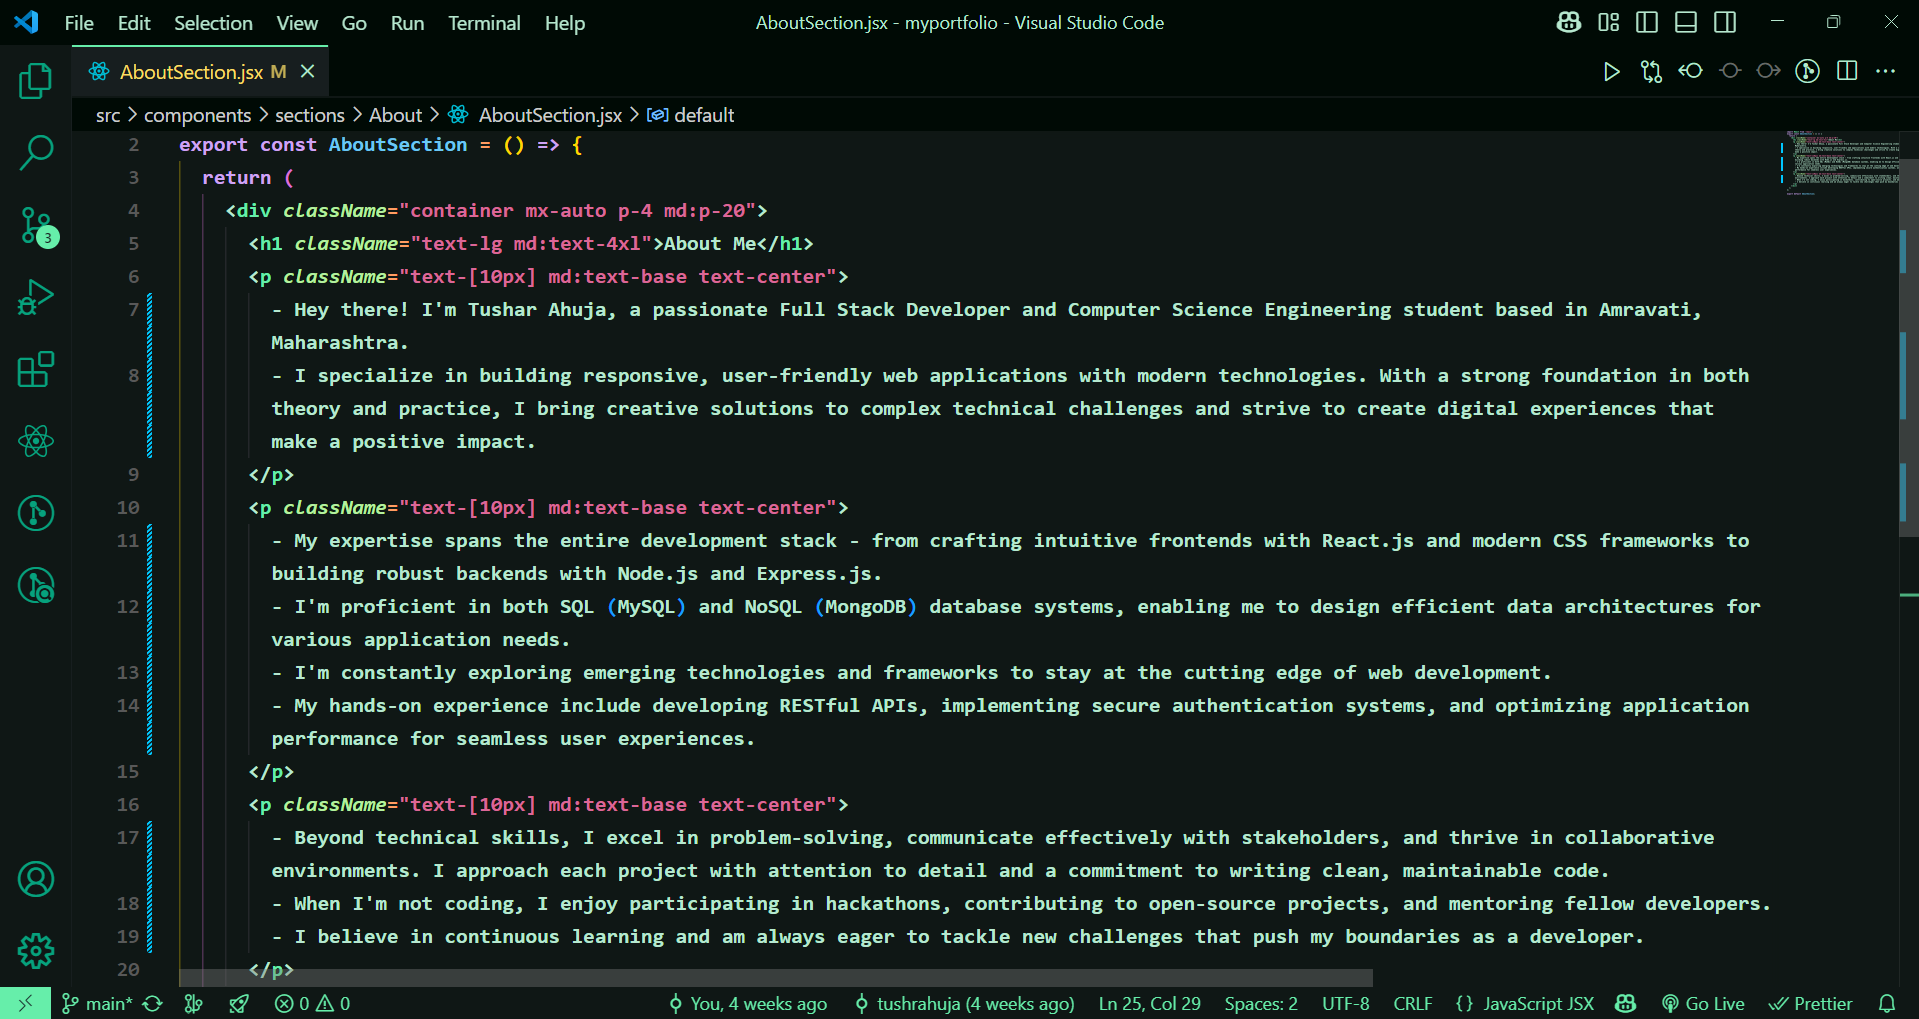
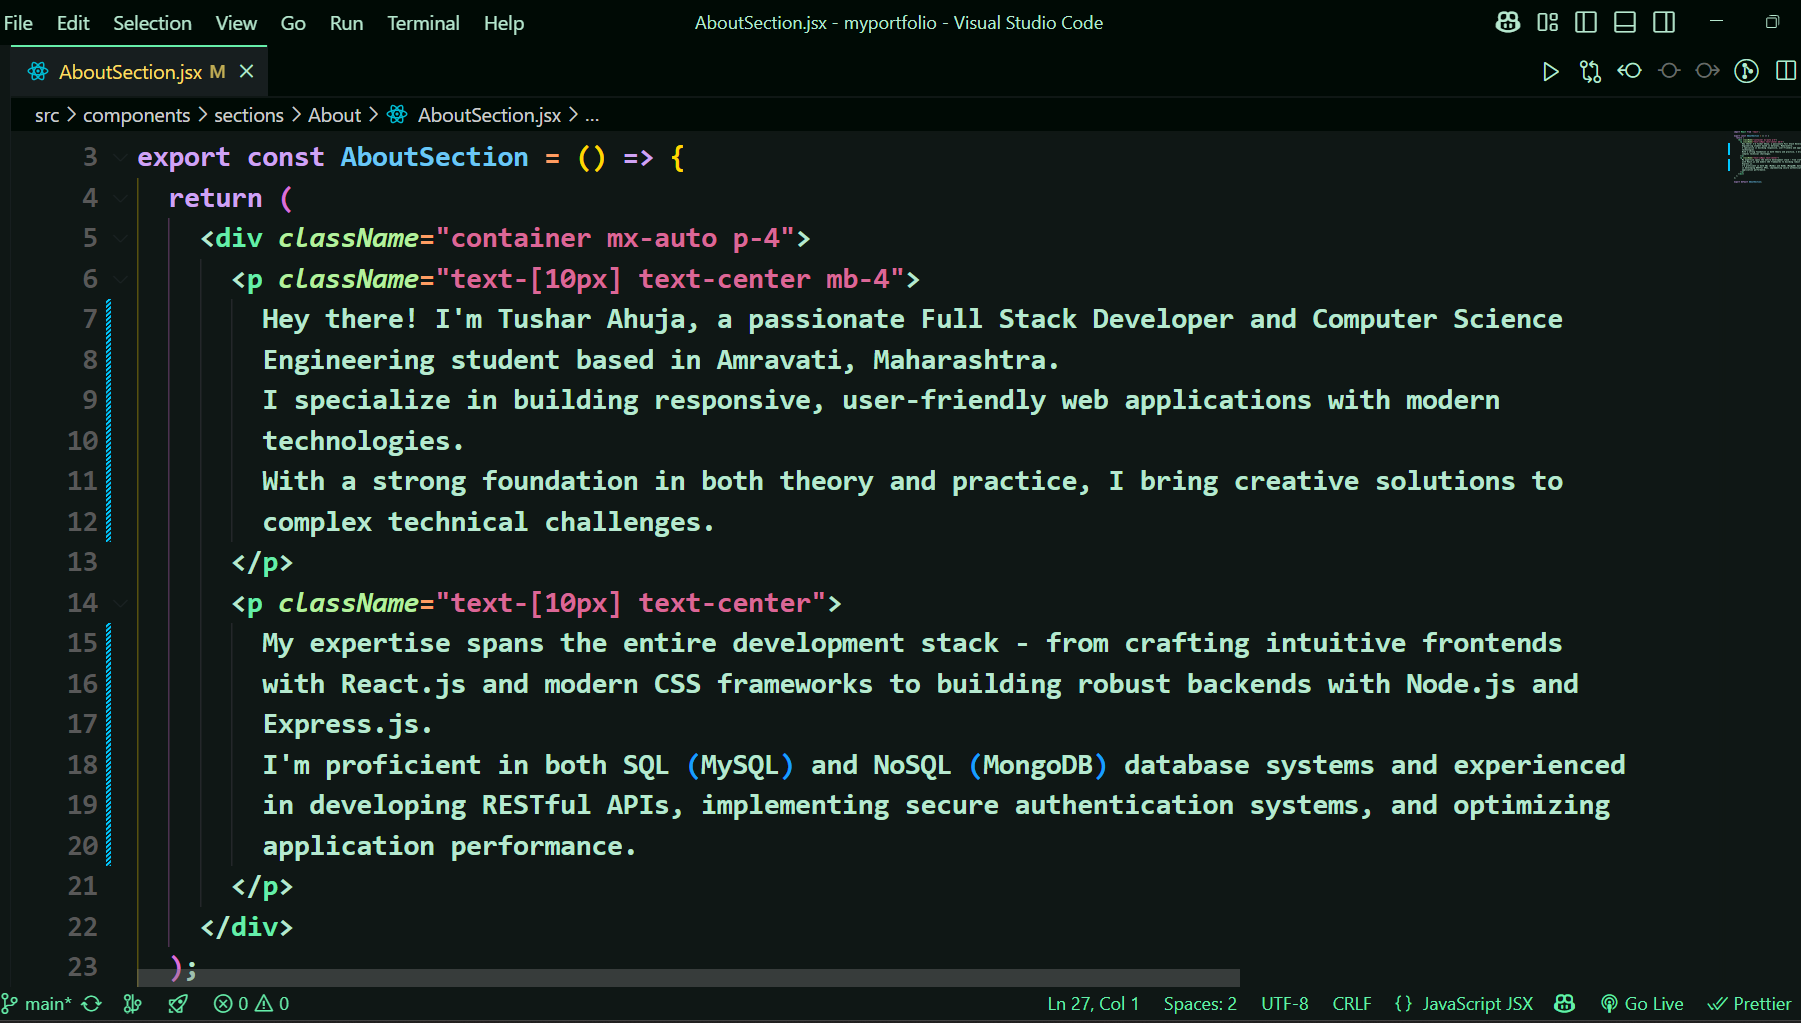
idk

diff --git a/src/components/sections/About/AboutSection.jsx b/src/components/sections/About/AboutSection.jsx
@@ -4,13 +4,20 @@ export const AboutSection = () => {
   return (
     <div className="container mx-auto p-4">
       <p className="text-[10px] text-center mb-4">
-        Hey there! I'm Tushar Ahuja, a passionate Full Stack Developer and Computer Science Engineering student based in Amravati, Maharashtra. 
-        I specialize in building responsive, user-friendly web applications with modern technologies. With a strong foundation in both theory and practice, 
-        I bring creative solutions to complex technical challenges.
+        Hey there! I'm Tushar Ahuja, a passionate Full Stack Developer and Computer Science 
+        Engineering student based in Amravati, Maharashtra. 
+        I specialize in building responsive, user-friendly web applications with modern 
+        technologies.
+        With a strong foundation in both theory and practice, I bring creative solutions to 
+        complex technical challenges.
       </p>
       <p className="text-[10px] text-center">
-        My expertise spans the entire development stack - from crafting intuitive frontends with React.js and modern CSS frameworks to building robust 
-        backends with Node.js and Express.js. I'm proficient in both SQL (MySQL) and NoSQL (MongoDB) database systems and experienced in developing RESTful APIs, implementing secure authentication systems, and optimizing application performance.
+        My expertise spans the entire development stack - from crafting intuitive frontends 
+        with React.js and modern CSS frameworks to building robust backends with Node.js and 
+        Express.js. 
+        I'm proficient in both SQL (MySQL) and NoSQL (MongoDB) database systems and experienced 
+        in developing RESTful APIs, implementing secure authentication systems, and optimizing 
+        application performance.
       </p>
     </div>
   );

diff --git a/src/components/sections/About/ContainerScroll.jsx b/src/components/sections/About/ContainerScroll.jsx
@@ -28,7 +28,7 @@ export const ContainerScroll = ({
     target: containerRef,
     offset: isMobile 
       ? ["start 90%", "center 30%"]  // Adjusted animation trigger points
-      : ["start 60%", "center center"]
+      : ["start 20%", "center 80%"]  // Changed from [40%, 70%] to [20%, 80%] for longer animation
   });
 
   const rotate = useTransform(scrollYProgress, [0, 1], [20, 0]);
@@ -45,7 +45,7 @@ export const ContainerScroll = ({
 
   return (
     <div
-      className={`${isMobile ? 'h-[50rem] mt-8' : 'h-[100rem]'} flex items-center justify-center relative p-0 w-full`}
+      className={`${isMobile ? 'h-[50rem] mt-8' : 'h-[80rem]'} flex items-center justify-center relative p-0 w-full`} // Reduced height for desktop
       ref={containerRef}
     >
       <div
@@ -94,7 +94,7 @@ export const Card = ({
       className={`${
         isMobile 
           ? 'h-[40rem] w-[88vw] px-2 mx-[6vw]' // Reduced from 94vw to 88vw
-          : 'h-[60rem] w-[85%] p-6 mx-auto' // Added w-[85%] instead of w-full
+          : 'h-[45rem] w-[85%] p-4 mx-auto' // Reduced height from 60rem to 45rem and padding from p-6 to p-4
       } border-4 border-black bg-[#222222] rounded-[30px] shadow-2xl`}
     >
       <div className="h-full w-full overflow-hidden rounded-2xl bg-black dark:bg-zinc-900 border-4 border-lightblue dark:border-gray-600">

diff --git a/src/components/sections/About/AboutContent.jsx b/src/components/sections/About/AboutContent.jsx
@@ -23,9 +23,13 @@ const AboutContent = () => {
   return (
     <div className="w-full h-full flex items-center justify-center">
       <img
-        src={isMobile ? "/images/aboutme2.jpg" : "/images/aboutme.jpg"}
+        src={isMobile ? "/images/aboutme2.jpg" : "/images/aboutme.png"}
         alt="About Me"
-        className={`w-full h-full ${isMobile ? 'object-fill scale-110' : 'object-cover scale-100'}`}
+        className={`w-full h-full ${
+          isMobile 
+            ? 'object-fill scale-110'
+            : 'object-contain scale-120' // Slightly reduced from scale-125 to scale-120
+        }`}
         draggable={false}
       />
     </div>

diff --git a/src/components/sections/About/index.jsx b/src/components/sections/About/index.jsx
@@ -4,7 +4,7 @@ import AboutContent from './AboutContent';
 
 const AboutSection = () => {
   return (
-    <div id="about" className="w-full overflow-x-hidden relative z-10 mt-0">
+    <div id="about" className="w-full overflow-x-hidden relative z-10 mt-0 md:-mb-40"> {/* Added negative margin bottom for desktop */}
       <ContainerScroll
         titleComponent={
           <h2 className="text-3xl md:text-6xl lg:text-7xl font-bold text-blue-900 dark:text-blue-100 mb-0">
